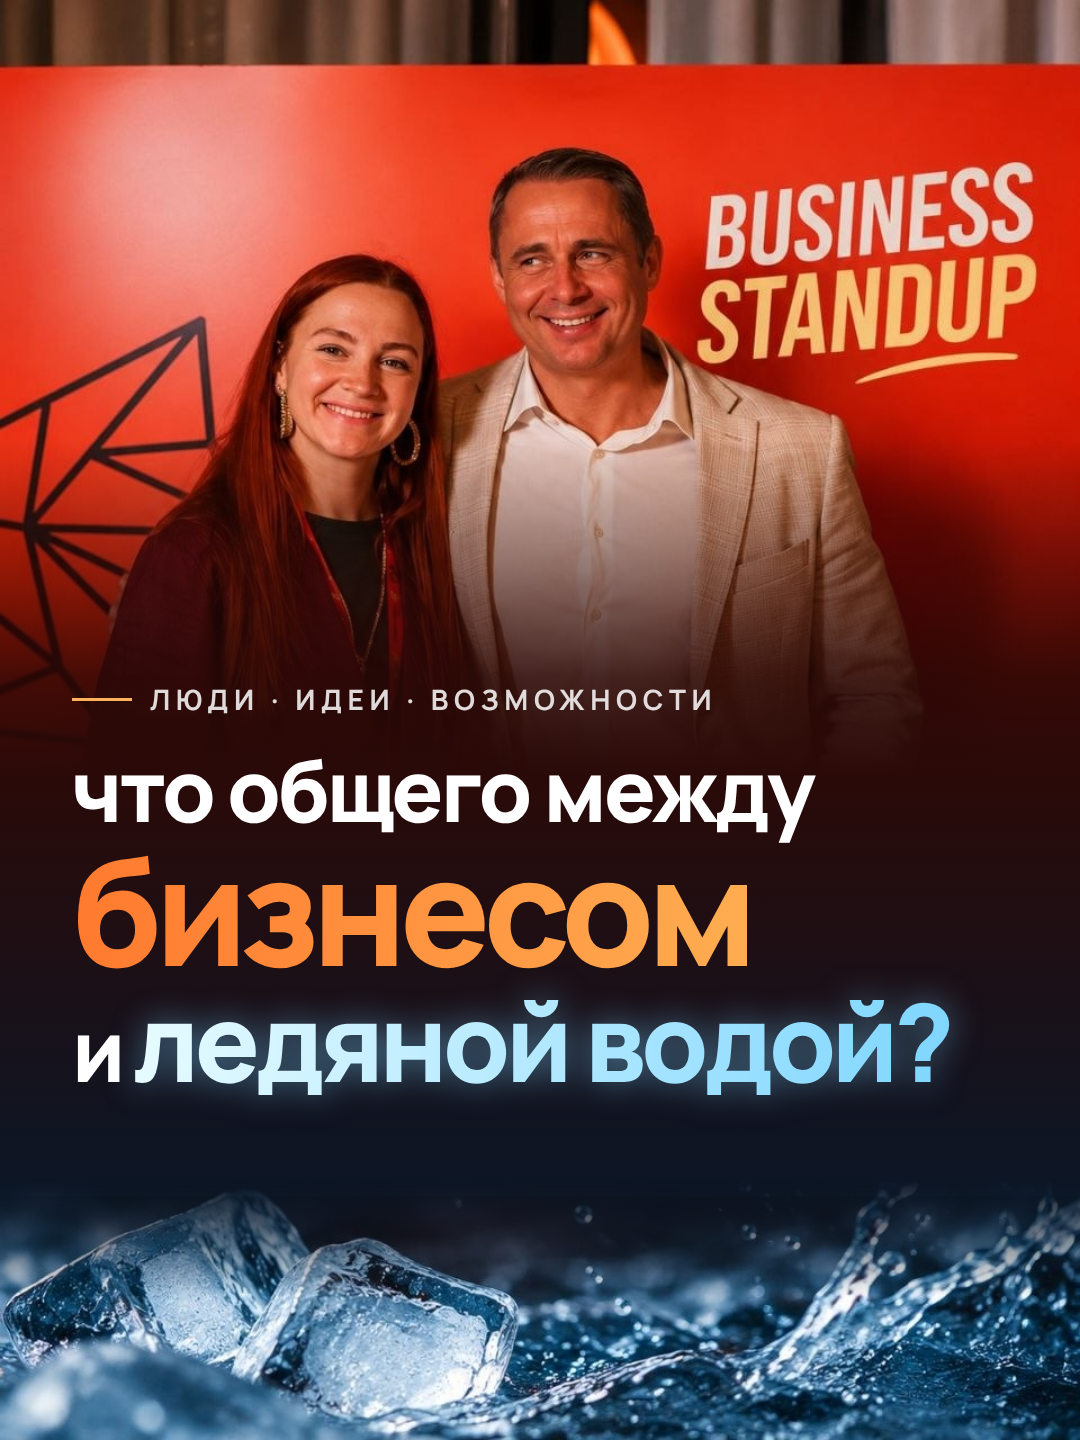
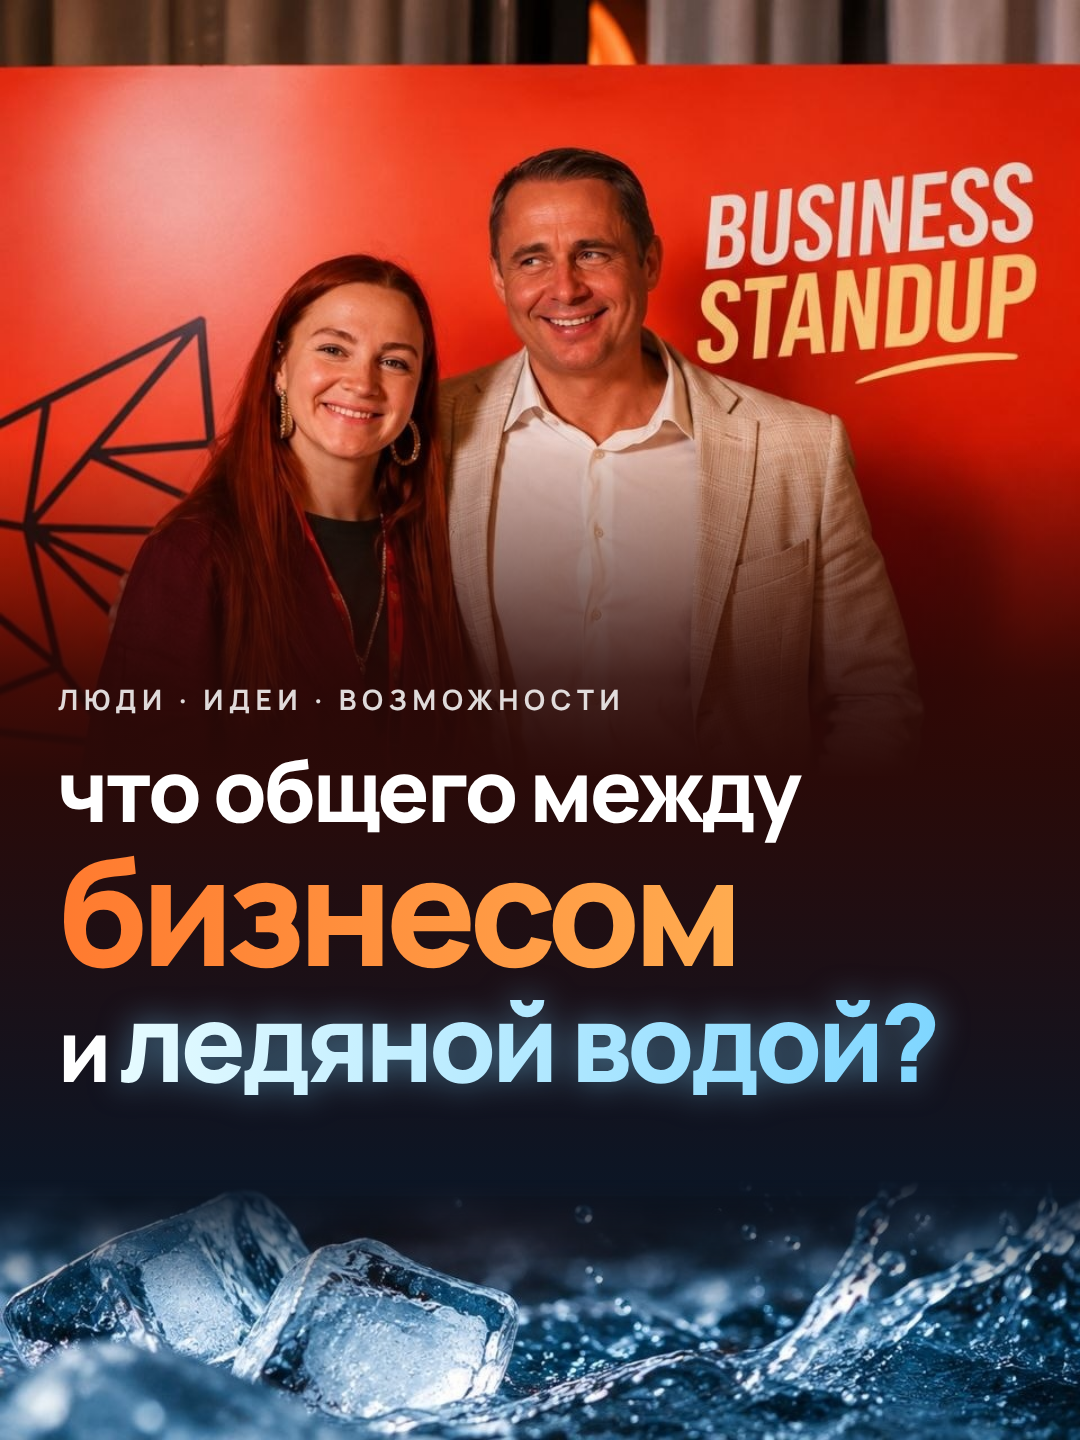
Business Standup cover: remove dash, shift block left
Claude-Session: https://claude.ai/code/session_01EUhV7va23MNh7ydDpeuyX7

Changed region(s): [[0.0611, 0.5312, 0.8861, 0.7812], [0.0611, 0.4688, 0.6722, 0.5]]

diff --git a/textura-carousel/bstand.html b/textura-carousel/bstand.html
@@ -8,8 +8,8 @@
  <div style="position:absolute;left:0;top:440px;width:1080px;height:340px;background:linear-gradient(180deg,rgba(40,8,6,0),rgba(40,8,6,.85) 70%,#2a0a08)"></div>
  <div style="position:absolute;left:0;top:776px;width:1080px;height:420px;background:linear-gradient(180deg,#2a0a08 0%,#0b1626 100%)"></div>
  <div style="position:absolute;left:0;bottom:0;width:1080px;height:260px;background:url(bstand/ice.jpg) center bottom/cover;-webkit-mask-image:linear-gradient(180deg,transparent,#000 45%);mask-image:linear-gradient(180deg,transparent,#000 45%)"></div>
- <div style="position:absolute;left:72px;right:60px;top:680px">
-  <div style="display:flex;align-items:center;gap:18px;font-weight:700;font-size:28px;letter-spacing:.2em;color:rgba(255,255,255,.85)"><i style="width:60px;height:3px;background:#FFB15C;display:block"></i>ЛЮДИ · ИДЕИ · ВОЗМОЖНОСТИ</div>
+ <div style="position:absolute;left:58px;right:50px;top:680px">
+  <div style="display:flex;align-items:center;gap:18px;font-weight:700;font-size:28px;letter-spacing:.2em;color:rgba(255,255,255,.85)">ЛЮДИ · ИДЕИ · ВОЗМОЖНОСТИ</div>
   <div style="margin-top:28px;font-weight:800;font-size:86px;line-height:1;letter-spacing:-.035em">что общего между</div>
   <div style="margin-top:6px;font-weight:800;font-size:150px;line-height:.95;letter-spacing:-.05em;background:linear-gradient(90deg,#FF7A2F,#FFC15E);-webkit-background-clip:text;color:transparent">бизнесом</div>
     <div style="margin-top:6px;font-weight:800;font-size:108px;line-height:1;letter-spacing:-.045em;white-space:nowrap"><span style="font-size:86px;color:#fff">и&nbsp;</span><span style="background:linear-gradient(90deg,#E6FBFF,#7FD6FF);-webkit-background-clip:text;color:transparent;filter:drop-shadow(0 0 16px rgba(120,210,255,.5))">ледяной водой?</span></div>
